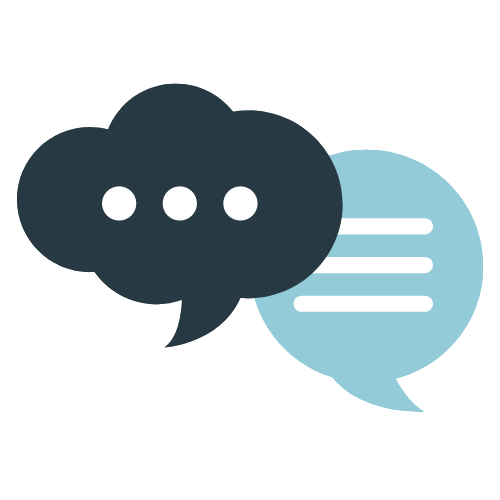
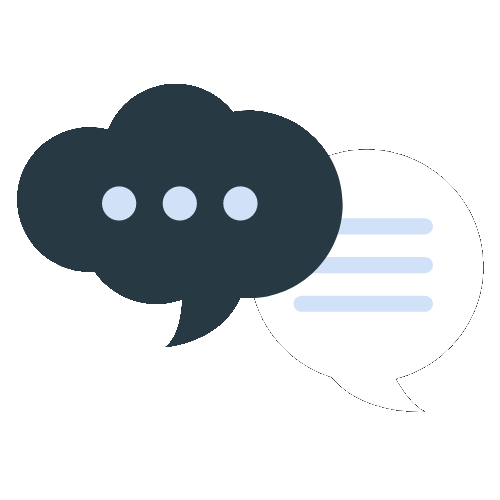
feat: add imagem correta
corrigida a imagem e ajustada dentro de uma div para permitir a centralização da mesma.

diff --git a/LandinPage.html b/LandinPage.html
@@ -212,6 +212,9 @@
     <section id="alunos" class="alunos-section">
         <div class="container">
             <h2 class="text-center mb-5">O Que Nossos Alunos Dizem</h2>
+            <div style="display: flex; justify-content: center;">
+                <img src="falas.png" alt="ícone de falas" style="max-width: 150px;">
+            </div>
             <div class="row">
                 <div class="col-md-4">
                     <div class="card">
